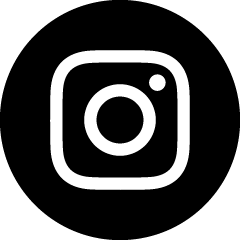
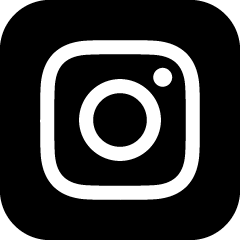
level-0.7.6

diff --git a/js/index.js b/js/index.js
@@ -1,7 +1,9 @@
 const { log } = console
 const sections = $('section'),
     nav = $('nav'),
-    nav_height = nav.outerHeight()
+    nav_height = nav.outerHeight(),
+    newsletter__input = $('.newsletter__input'),
+    newsletter__button = $('.newsletter__button')
 
 $(document).ready(function () {
     $('.header__burger').click(function (event) {
@@ -29,7 +31,6 @@ $(window).on('scroll', function () {
 nav.find('a').on('click', function () {
     const $el = $(this),
         id = $el.attr('href')
-
     $('html, body').animate(
         {
             scrollTop: $(id).offset().top - nav_height + 1,
@@ -38,4 +39,17 @@ nav.find('a').on('click', function () {
     )
 
     return false
+})
+
+$(newsletter__button).on('click', function (e) {
+    e.preventDefault()
+    const regex =
+        /^([a-zA-Z0-9_.+-])+\@(([a-zA-Z0-9-])+\.)+([a-zA-Z0-9]{2,4})+$/
+    const text__input = $(newsletter__input).val()
+    if (regex.test(text__input)) {
+        alert(text__input)
+        $(newsletter__input).val('')
+    } else {
+        alert('invalid email')
+    }
 })

diff --git a/blocks/body/body.css b/blocks/body/body.css
@@ -1241,6 +1241,9 @@ h4 {
 .footer__image {
     width: 25px;
     height: 25px;
+    margin-right: 5px;
+    border-radius: 30%;
+    background-color: #a7a7a7;
 }
 
 .footer__copyright {
